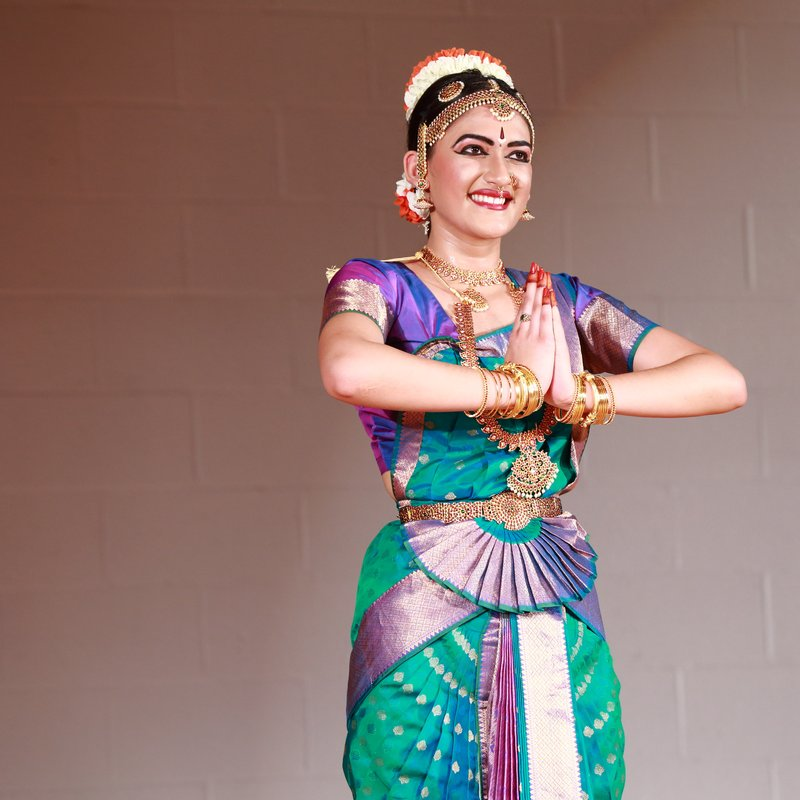
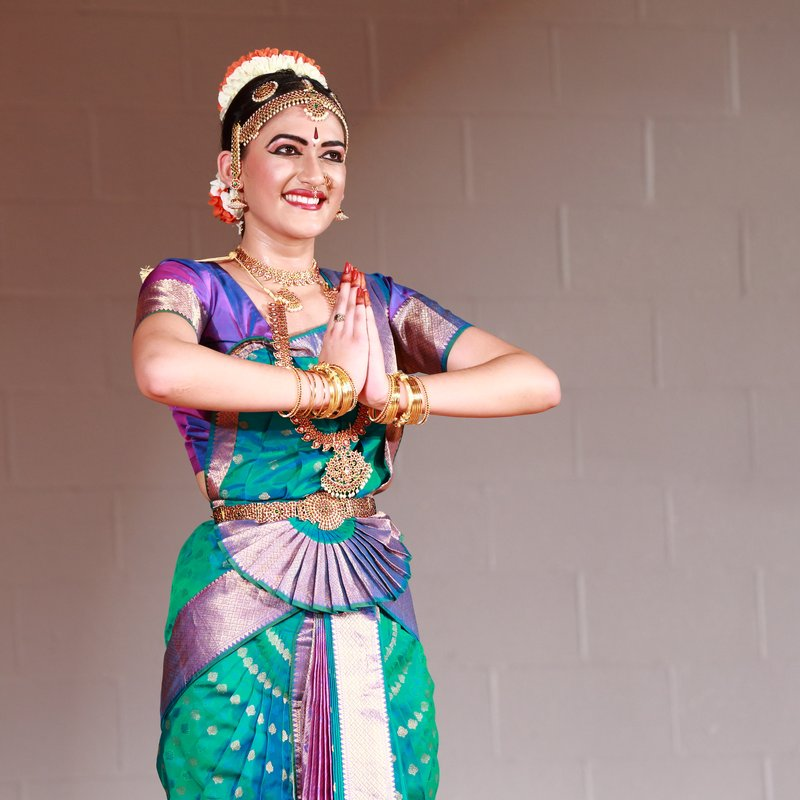
Add files via upload

diff --git a/index.html b/index.html
@@ -539,7 +539,7 @@
         <h1>Niharika Desiraju</h1>
       </div>
       <div class="hero-desc-wrap">
-        <p class="hero-desc">She turns complex healthcare data into smarter decisions, better systems, and stronger partnerships.</p>
+        <p class="hero-desc">Connecting healthcare data, systems, and people to drive smarter decisions and stronger partnerships.</p>
       </div>
       <div class="hero-tagline-wrap">
         <p class="hero-tagline">Healthcare • Data • Growth</p>
